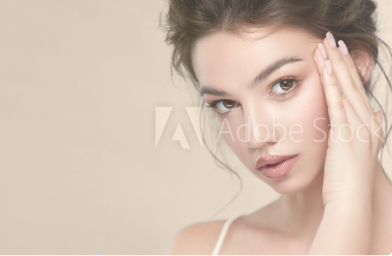
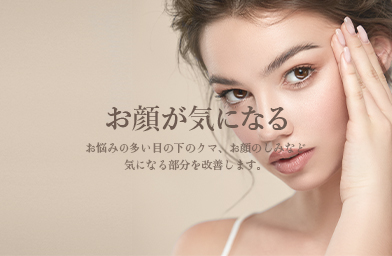
hero_fix

Changed region(s): [[0.0, 0.0, 1.0, 1.0], [0.6122, 0.75, 0.6429, 0.7812]]

diff --git a/index.html b/index.html
@@ -22,19 +22,26 @@
         <div id="offcanvas-nav" uk-offcanvas="overlay: true">
           <div class="uk-offcanvas-bar">
             <ul class="uk-nav uk-nav-default">
-              <li class="uk-active"><a href="#">Active</a></li>
+              <li class="uk-active"><a href="#">トップ</a></li>
               <li class="uk-parent">
-                <a href="#">Parent</a>
+                <a href="#">診療メニュー</a>
                 <ul class="uk-nav-sub">
-                  <li><a href="#">Sub item</a></li>
-                  <li><a href="#">Sub item</a></li>
+                  <li><a href="#">二重</a></li>
+                  <li><a href="#">フェイスリフト</a></li>
                 </ul>
               </li>
-              <li class="uk-nav-header">Header</li>
-              <li><a href="#"><span class="uk-margin-small-right" uk-icon="icon: table"></span> Item</a></li>
-              <li><a href="#"><span class="uk-margin-small-right" uk-icon="icon: thumbnails"></span> Item</a></li>
-              <li class="uk-nav-divider"></li>
-              <li><a href="#"><span class="uk-margin-small-right" uk-icon="icon: trash"></span> Item</a></li>
+              <li class="uk-parent">
+                <a href="#">クリニック紹介</a>
+              </li>
+              <li class="uk-parent">
+                <a href="#">Dr.介</a>
+              </li>
+              <li class="uk-parent">
+                <a href="#">料金表</a>
+              </li>
+              <li class="uk-parent">
+                <a href="#">お問い合わせ</a>
+              </li>
             </ul>
           </div>
         </div>
@@ -45,7 +52,7 @@
     <div class="uk-position-relative uk-visible-toggle uk-light" tabindex="-1" uk-slideshow="min-height: 301; max-height: 301; animation: push">
       <ul class="uk-slideshow-items">
         <li>
-          <img src="img/hero01.png" alt="" uk-cover>
+          <img src="img/hero.png" srcset="img/hero.png 1x,img/hero@2x.png 2x" alt="" uk-cover>
         </li>
         <li>
           <img src="img/hero01.png" alt="" uk-cover>
